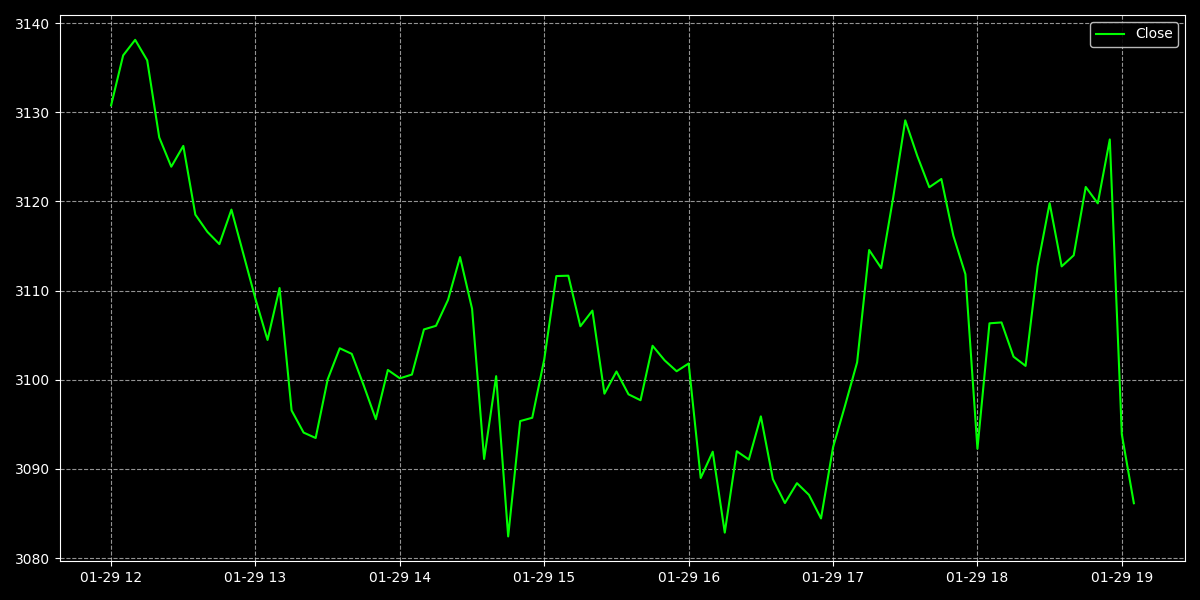
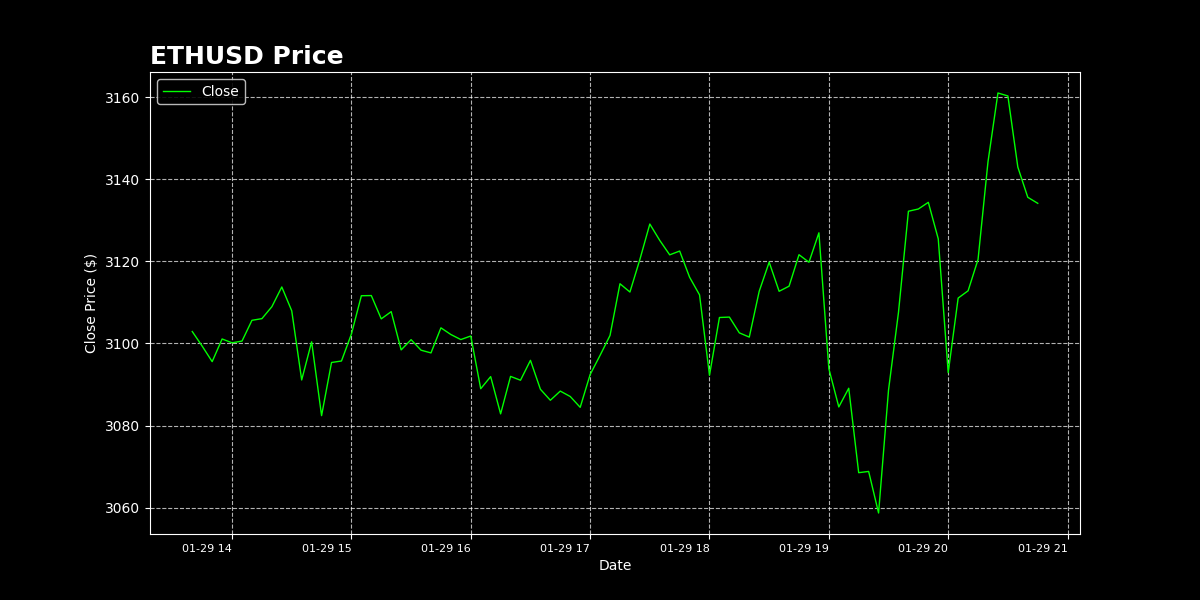
1/29 part 3

diff --git a/Statistic.py b/Statistic.py
@@ -38,11 +38,39 @@ class Statistic:
             #low
             #high
         })
-        open(f"mod_{self.file_name}.csv", "w")
+        data.to_csv(f'mod_{self.file_name}.csv')
         return data
+    #read the csv file to be plot
+    #The plot update with new data being written into the csv
+    def graph(self):
+        plt.tight_layout()
+        self.format_graph(
+        title   = f"{self.file_name} Price",
+        xlabel  = 'Date', 
+        ylabel  = 'Close Price ($)')      
 
-    def format_plot(self, title, xlabel, ylabel, grid=True):
+        data = self.read()
+        x = data['Date']
+        y_close = data['Close']
+        #plt.plot(x, y_low, label='Low', color='blue', linestyle='-', linewidth=1.5)
+        plt.plot(x, y_close, label='Close', color='lime')
+        #plt.plot(x, y_high, label='High', color='red', linestyle='-', linewidth=1.5)
+        
+
+
+        plt.legend(loc='best') 
+        #plt.tight_layout()  # Automatically adjust subplot parameters to give some padding
+
+
+        plt.savefig(f"{self.file_name}.png")
+        plt.show()
+
+    def format_graph(self, title, xlabel, ylabel, grid=True):
         plt.style.use("dark_background")
+
+        plt.title(title, fontsize=18, fontweight='bold', loc='left')
+        plt.xlabel(xlabel, fontsize=10)
+        plt.ylabel(ylabel, fontsize=10)
 
         plt.rcParams.update({
             'lines.linewidth': 1.0, 
@@ -55,38 +83,9 @@ class Statistic:
             'legend.fancybox': True,    # Rounded box for legend
             'figure.figsize': (12, 6)      # Standard figure size
         })
-            
-        plt.title(title, fontsize=18, fontweight='bold', loc='left')
-        plt.xlabel(xlabel, fontsize=10)
-        plt.ylabel(ylabel, fontsize=10)
 
         plt.xticks(rotation=0, ha='right', fontsize=8)
 
         if grid:
             plt.grid(True, linestyle='--', alpha=0.7)
 
-    #read the csv file to be plot
-    #The plot update with new data being written into the csv
-    def graph(self):
-        self.format_plot(
-        title   = f'{self.file_name}', 
-        xlabel  = 'Date', 
-        ylabel  = 'Close Price ($)')
-            
-        data = self.read()
-        x = data['timestamp']
-
-        #y_low = data['low']
-        y_close = data['close']
-        #y_high = data['high']
-
-        plt.cla()  # Clear the current axes.
-        #plt.plot(x, y_low, label='Low', color='blue', linestyle='-', linewidth=1.5)
-        plt.plot(x, y_close, label='Close', color='lime', linestyle='-', linewidth=1.5)
-        #plt.plot(x, y_high, label='High', color='red', linestyle='-', linewidth=1.5)
-        
-        plt.legend(loc='best') 
-        plt.tight_layout()  # Automatically adjust subplot parameters to give some padding
-        plt.savefig(f"{self.file_name}.png")
-        plt.show()
-        plt.clf()  # Clear the figure
